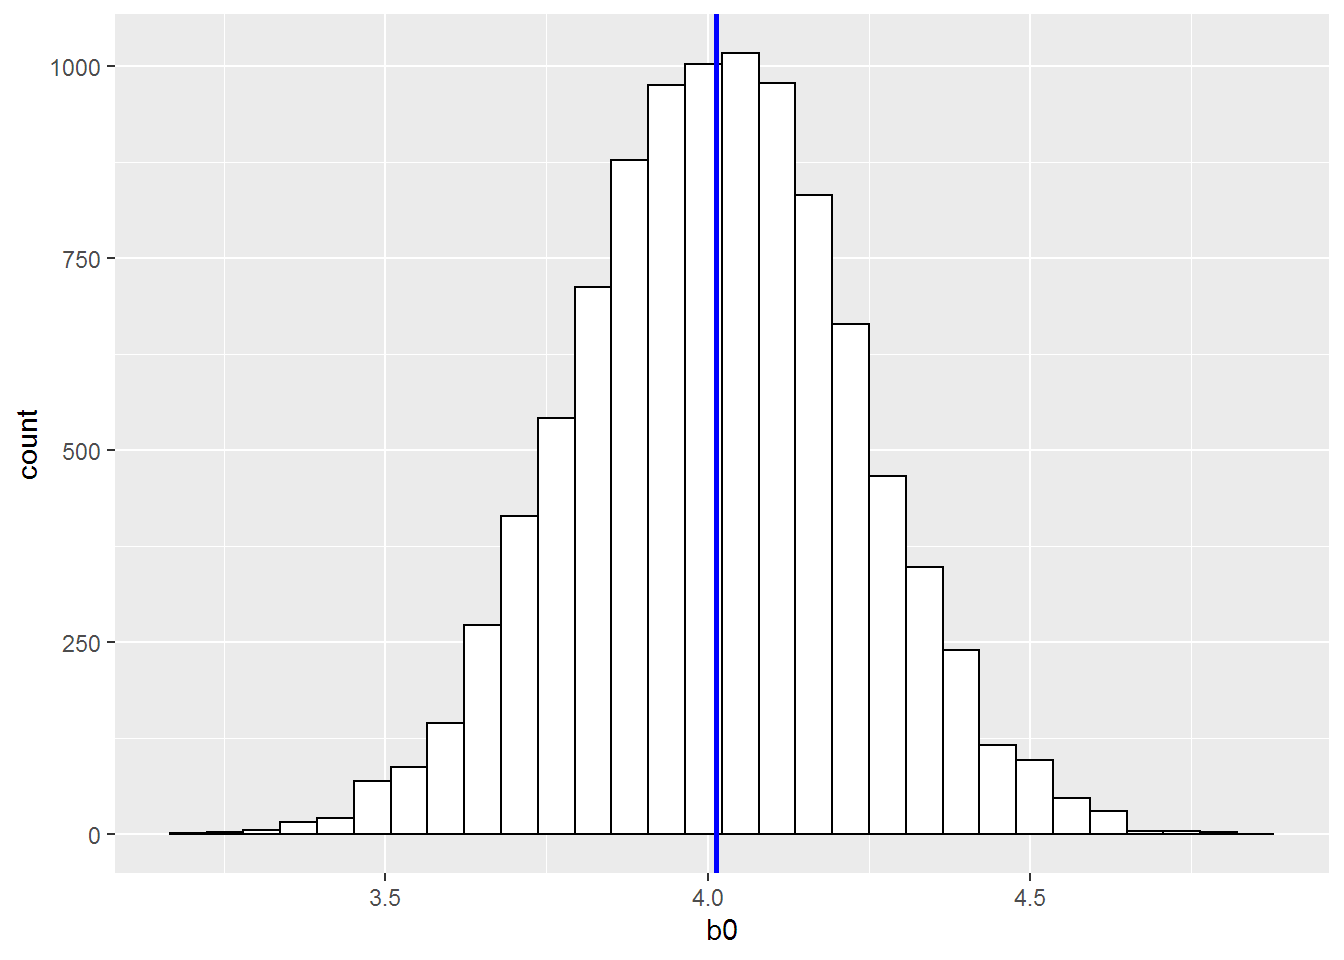
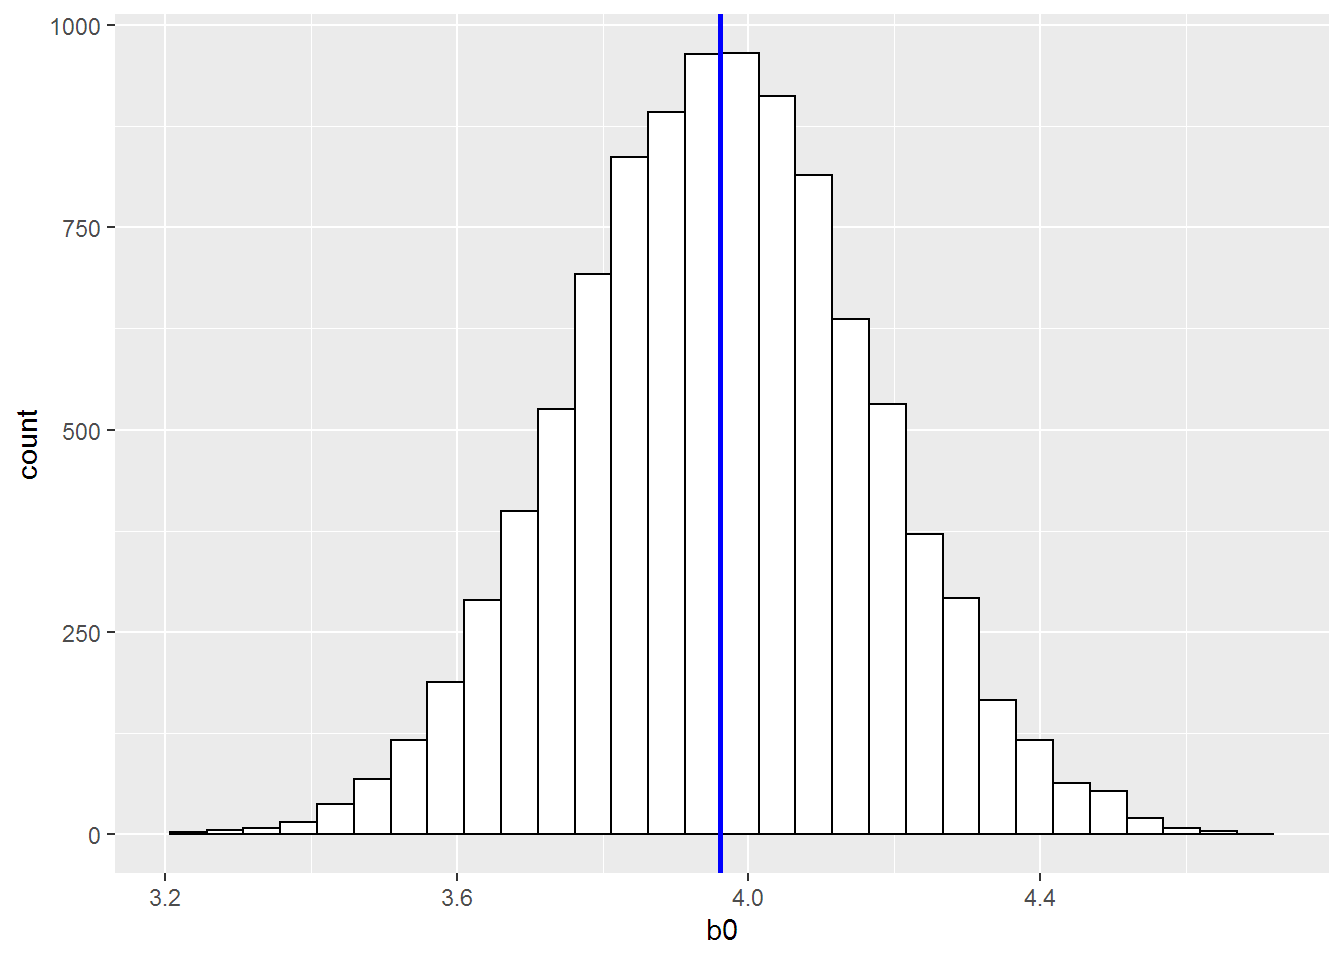
seed fix

diff --git a/content/post/2019-07-01-metodos-de-resampleo.html b/content/post/2019-07-01-metodos-de-resampleo.html
@@ -57,6 +57,7 @@ En el fondo lo que se hace es suponer que nuestra muestra es <em>representativa<
 <p>Generamos un ejemplo para ver cómo funciona.</p>
 <p>Empezamos generado una población de y que depende x con intercepto 5 y b1 = 5.</p>
 <pre class="r"><code>library(ggplot2)
+set.seed(1)
 x &lt;-rnorm(10000, mean = 2, sd = 3)
 y &lt;- 4 + 5*x + rnorm(10000,0,4)
 df &lt;- cbind.data.frame(y,x)
@@ -78,19 +79,19 @@ for (i in 1:1000){
 
 summary(results_pop)</code></pre>
 <pre><code>##        b0              b1       
-##  Min.   :3.421   Min.   :4.799  
-##  1st Qu.:3.890   1st Qu.:4.942  
-##  Median :4.038   Median :4.982  
-##  Mean   :4.034   Mean   :4.984  
-##  3rd Qu.:4.177   3rd Qu.:5.025  
-##  Max.   :4.633   Max.   :5.176</code></pre>
+##  Min.   :3.198   Min.   :4.804  
+##  1st Qu.:3.834   1st Qu.:4.969  
+##  Median :3.974   Median :5.005  
+##  Mean   :3.975   Mean   :5.004  
+##  3rd Qu.:4.115   3rd Qu.:5.043  
+##  Max.   :4.615   Max.   :5.169</code></pre>
 <pre class="r"><code>print(paste0(&quot;El desvío estándar de b0 a partir de 1000 modelos es &quot;, sd(x = results_pop$b0)))</code></pre>
-<pre><code>## [1] &quot;El desvío estándar de b0 a partir de 1000 modelos es 0.217782102801907&quot;</code></pre>
+<pre><code>## [1] &quot;El desvío estándar de b0 a partir de 1000 modelos es 0.207882713489026&quot;</code></pre>
 <pre class="r"><code>ggplot(data = results_pop) + 
   geom_histogram( aes( x = b0), fill = &quot;white&quot;, colour = &quot;black&quot;)  + 
   geom_vline( aes(xintercept = mean(b0)), colour = &quot;red&quot;, size = 1)</code></pre>
 <p><img src="/post/2019-07-01-metodos-de-resampleo_files/figure-html/unnamed-chunk-2-1.png" width="672" /></p>
-<p>Vemos que estimando 1000 modelos a partir de 500 observaciones independientes de la población original obtenemos para b0 estimaciones centradas aproximadamente en el valor real (3.915) pero con un mínimo encontrado en 3.306 y un máximo en 4.600. El desvío estándar de la estimación es de 0.210. A su vez mostramos un histograma de cómo se distribuye la estimación de b0.</p>
+<p>Vemos que estimando 1000 modelos a partir de 500 observaciones independientes de la población original obtenemos para b0 estimaciones centradas aproximadamente en el valor real (3.975) pero con un mínimo encontrado en 3.198 y un máximo en 4.615. El desvío estándar de la estimación es de 0.2078. A su vez mostramos un histograma de cómo se distribuye la estimación de b0.</p>
 <p>Ahora simulemos un caso real donde solo tenemos una muestra de 500 observaciones y es todo con lo que podemos trabajar. Como primera medida estimamos una regresión lineal y vemos qué parámetros ajustan mejor nuestros datos.</p>
 <pre class="r"><code># Muestras de la población
 results_sample &lt;- data.frame(b0 = double(), b1 = double())
@@ -112,12 +113,12 @@ knitr::kable(results_sample, caption = &quot;Coefficients&quot;)</code></pre>
 </thead>
 <tbody>
 <tr class="odd">
-<td align="right">3.93326</td>
-<td align="right">4.950651</td>
+<td align="right">3.89621</td>
+<td align="right">5.025914</td>
 </tr>
 </tbody>
 </table>
-<p>Vemos que a partir de entrenar el modelo con las 500 observaciones obtenemos un intercepto de 3.751 y un b1 estimado de 5.028. Nosotros, como conocemos la población, sabemos que el intercepto no es del todo preciso ya que el real es 4 sin embargo en un caso real eso no lo sabríamos. Nos interesaría saber qué variabilidad tiene ese coeficiente para tener una medida de qué tan variable es nuestro resultado.<br />
+<p>Vemos que a partir de entrenar el modelo con las 500 observaciones obtenemos un intercepto de 3.896 y un b1 estimado de 5.026. Nosotros, como conocemos la población, sabemos que el intercepto no es del todo preciso ya que el real es 4 sin embargo en un caso real eso no lo sabríamos. Nos interesaría saber qué variabilidad tiene ese coeficiente para tener una medida de qué tan variable es nuestro resultado.<br />
 Para una regresión lineal eso se puede saber ya que no es difícil calcular la varianza de los estimadores, pero con modelos más complicados no siempre se puede y ahí es donde bootstrap ayuda realmente. Acá lo hacemos con la regresión lineal porque es lo más sencillo de mostrar.<br />
 Suponiendo que queremos obtener una estimaación de la variabilidad del coeficiente estimado b0 procedemos con bootstrap.</p>
 <p>Fijense que lo que hacemos es distinto al primer caso. Acá tomamos 10000 muestras no de la población sino de nuestro set de 500 observaciones. Estas muestras son también de 500 observaciones, la diferencia es que es con reposición por lo tanto una misma observación puede figurar más de una vez.</p>
@@ -134,37 +135,37 @@ for (i in 1:10000){
 
 summary(results_bootstrap)</code></pre>
 <pre><code>##        b0              b1       
-##  Min.   :3.173   Min.   :4.751  
-##  1st Qu.:3.865   1st Qu.:4.907  
-##  Median :4.013   Median :4.945  
-##  Mean   :4.013   Mean   :4.945  
-##  3rd Qu.:4.159   3rd Qu.:4.985  
-##  Max.   :4.827   Max.   :5.179</code></pre>
+##  Min.   :3.245   Min.   :4.791  
+##  1st Qu.:3.822   1st Qu.:4.982  
+##  Median :3.962   Median :5.020  
+##  Mean   :3.962   Mean   :5.019  
+##  3rd Qu.:4.100   3rd Qu.:5.057  
+##  Max.   :4.709   Max.   :5.205</code></pre>
 <pre class="r"><code>print(paste0(&quot;El desvío estándar de b0 a partir de 10000 modelos es &quot;, sd(x = results_bootstrap$b0)))</code></pre>
-<pre><code>## [1] &quot;El desvío estándar de b0 a partir de 10000 modelos es 0.218799909021541&quot;</code></pre>
+<pre><code>## [1] &quot;El desvío estándar de b0 a partir de 10000 modelos es 0.207126704818891&quot;</code></pre>
 <pre class="r"><code>ggplot(data = results_bootstrap) + 
   geom_histogram( aes( x = b0),fill = &quot;white&quot;, colour = &quot;black&quot;) + 
   geom_vline( aes(xintercept = mean(b0)), colour = &quot;blue&quot;, size = 1)</code></pre>
 <p><img src="/post/2019-07-01-metodos-de-resampleo_files/figure-html/unnamed-chunk-4-1.png" width="672" /></p>
-<p>Voilà. Corrimos 10000 iteraciones de nuestro modelo a partir de 10000 muestras de nuestra data original. El desvío estándar de b0 para bootstrap quedó de 0.2102. Que si comparamos con el de 1000 muestras independientes que era 0.2106 es prácticamente igual. A su vez, podemos calcular el desvío teórico de b0 a partir del modelo (la solución fácil).</p>
+<p>Voilà. Corrimos 10000 iteraciones de nuestro modelo a partir de 10000 muestras de nuestra data original. El desvío estándar de b0 para bootstrap quedó de 0.2071. Que si comparamos con el de 1000 muestras independientes que era 0.2078 es prácticamente igual. A su vez, podemos calcular el desvío teórico de b0 a partir del modelo (la solución fácil).</p>
 <pre class="r"><code>summary(ml_train_sample)</code></pre>
 <pre><code>## 
 ## Call:
 ## lm(formula = y ~ x, data = df_train_sample)
 ## 
 ## Residuals:
-##     Min      1Q  Median      3Q     Max 
-## -14.543  -2.652  -0.184   2.494  12.069 
+##      Min       1Q   Median       3Q      Max 
+## -13.2193  -2.8265   0.0281   2.7421  10.7577 
 ## 
 ## Coefficients:
 ##             Estimate Std. Error t value Pr(&gt;|t|)    
-## (Intercept)  3.93326    0.22066   17.82   &lt;2e-16 ***
-## x            4.95065    0.06024   82.18   &lt;2e-16 ***
+## (Intercept)  3.89621    0.21607   18.03   &lt;2e-16 ***
+## x            5.02591    0.05902   85.16   &lt;2e-16 ***
 ## ---
 ## Signif. codes:  0 &#39;***&#39; 0.001 &#39;**&#39; 0.01 &#39;*&#39; 0.05 &#39;.&#39; 0.1 &#39; &#39; 1
 ## 
-## Residual standard error: 3.916 on 498 degrees of freedom
-## Multiple R-squared:  0.9313, Adjusted R-squared:  0.9312 
-## F-statistic:  6753 on 1 and 498 DF,  p-value: &lt; 2.2e-16</code></pre>
-<p>Vemos que desde R el modelo nos devuelve que b0 tiene un desvío de 0.20975. Prácticamente igual al desvío de las muestras independientes como al de bootstrap. Por otra parte vemos que el promedio de b0 estimado en bootstrap es mucho más cercano a 4 que el estimado con una sola iteración y quedó mucho más cerca que el promedio de los estimados mediante muestras independientes. Nada mal no?</p>
+## Residual standard error: 3.98 on 498 degrees of freedom
+## Multiple R-squared:  0.9357, Adjusted R-squared:  0.9356 
+## F-statistic:  7252 on 1 and 498 DF,  p-value: &lt; 2.2e-16</code></pre>
+<p>Vemos que desde R el modelo nos devuelve que b0 tiene un desvío de 0.21607. Prácticamente igual al desvío de las muestras independientes como al de bootstrap. Por otra parte vemos que el promedio de b0 estimado en bootstrap es mucho más cercano a 4 que el estimado con una sola iteración y quedó mucho más cerca que el promedio de los estimados mediante muestras independientes. Nada mal no?</p>
 </div>
